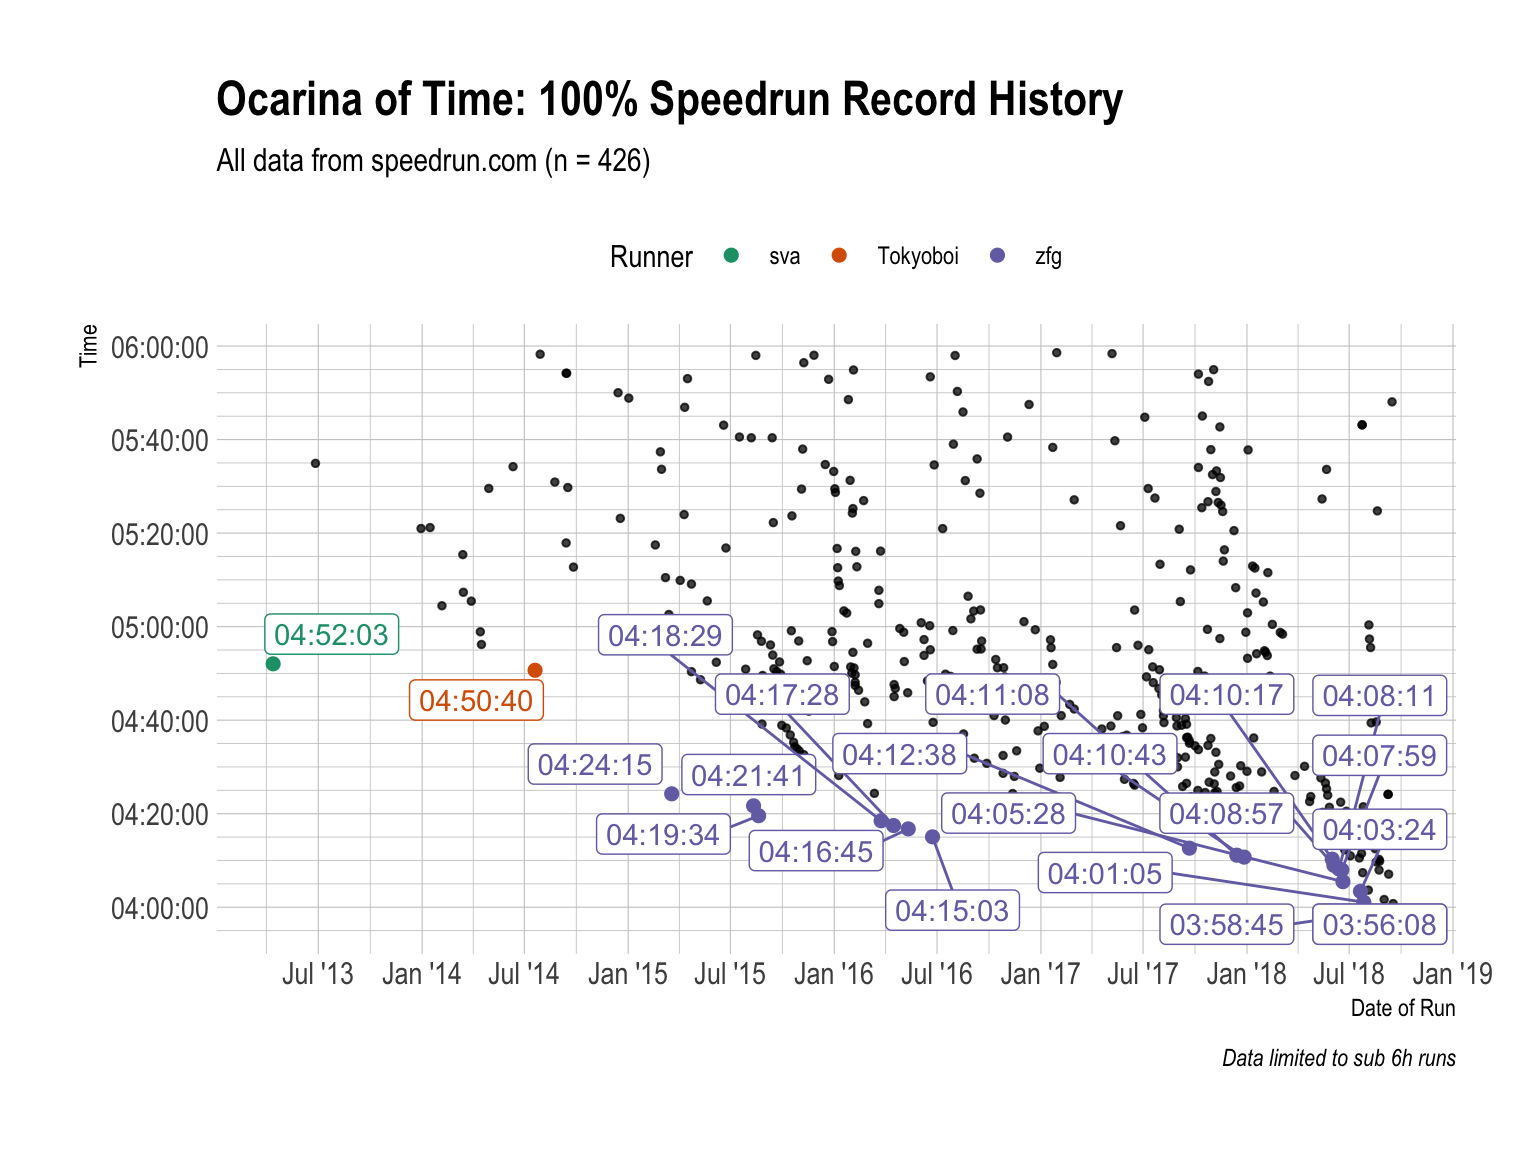
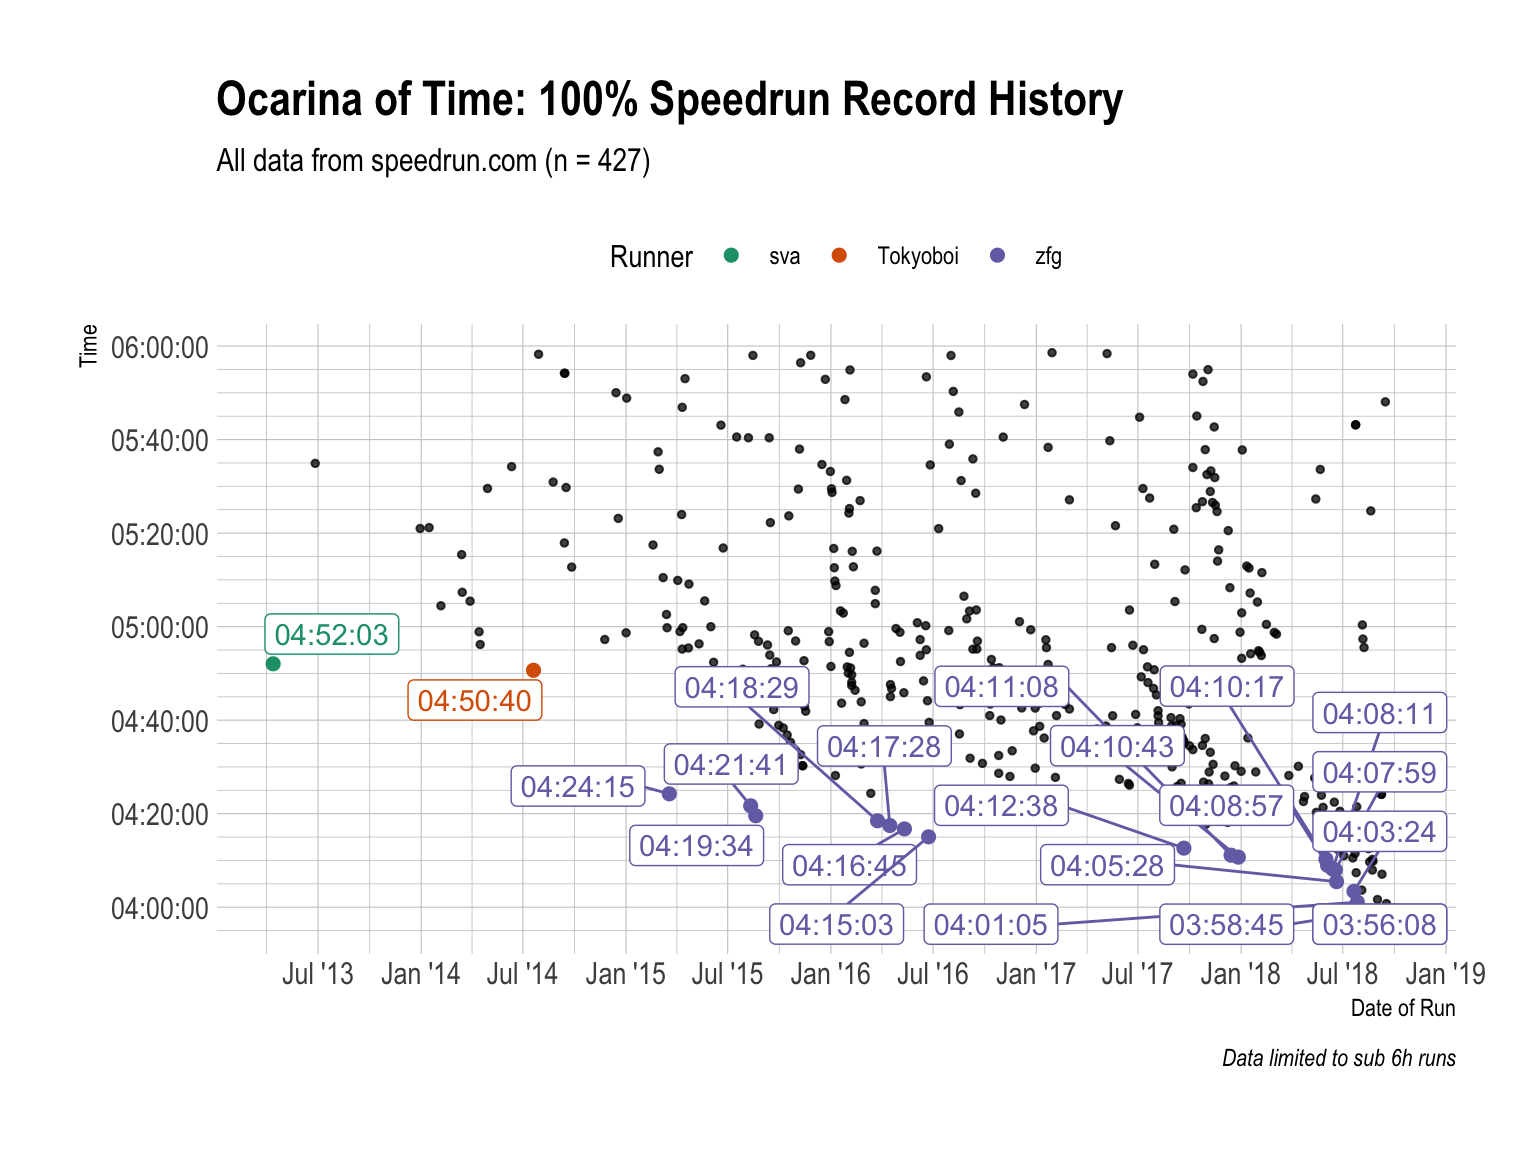
Rebuild everything

diff --git a/docs/articles/ocarina-of-time-100-.html b/docs/articles/ocarina-of-time-100-.html
@@ -82,7 +82,7 @@
       <h1>Ocarina of Time 100%</h1>
                         <h4 class="author">Lukas Burk</h4>
             
-            <h4 class="date">2018-09-30</h4>
+            <h4 class="date">2018-10-11</h4>
       
       <small class="dont-index">Source: <a href="https://github.com/jemus42/speedrunr/blob/master/vignettes/ocarina-of-time-100-.Rmd"><code>vignettes/ocarina-of-time-100-.Rmd</code></a></small>
       <div class="hidden name"><code>ocarina-of-time-100-.Rmd</code></div>
@@ -134,26 +134,26 @@
 <a class="sourceLine" id="cb3-4" data-line-number="4">oot100 &lt;-<span class="st"> </span><span class="kw"><a href="../reference/get_runs.html">get_runs</a></span>(<span class="dt">game =</span> <span class="st">"j1l9qz1g"</span>, <span class="dt">category =</span> <span class="st">"q255jw2o"</span>, <span class="dt">max =</span> <span class="ot">Inf</span>)</a></code></pre></div>
 <p>Note that I’m useing <code>max = Inf</code> to make sure I get <em>all</em> the runs.</p>
 <div class="sourceCode" id="cb4"><pre class="sourceCode r"><code class="sourceCode r"><a class="sourceLine" id="cb4-1" data-line-number="1"><span class="kw">str</span>(oot100)</a>
-<a class="sourceLine" id="cb4-2" data-line-number="2"><span class="co">#&gt; Classes 'tbl_df', 'tbl' and 'data.frame':    538 obs. of  22 variables:</span></a>
-<a class="sourceLine" id="cb4-3" data-line-number="3"><span class="co">#&gt;  $ id             : chr  "yl4r56rm" "yl4r16xm" "y923l3ez" "zx4gejqy" ...</span></a>
-<a class="sourceLine" id="cb4-4" data-line-number="4"><span class="co">#&gt;  $ weblink        : chr  "https://www.speedrun.com/oot/run/yl4r56rm" "https://www.speedrun.com/oot/run/yl4r16xm" "https://www.speedrun.com/oot/run/y923l3ez" "https://www.speedrun.com/oot/run/zx4gejqy" ...</span></a>
+<a class="sourceLine" id="cb4-2" data-line-number="2"><span class="co">#&gt; Classes 'tbl_df', 'tbl' and 'data.frame':    539 obs. of  22 variables:</span></a>
+<a class="sourceLine" id="cb4-3" data-line-number="3"><span class="co">#&gt;  $ id             : chr  "z51vk85m" "yl4r56rm" "yl4r16xm" "y923l3ez" ...</span></a>
+<a class="sourceLine" id="cb4-4" data-line-number="4"><span class="co">#&gt;  $ weblink        : chr  "https://www.speedrun.com/oot/run/z51vk85m" "https://www.speedrun.com/oot/run/yl4r56rm" "https://www.speedrun.com/oot/run/yl4r16xm" "https://www.speedrun.com/oot/run/y923l3ez" ...</span></a>
 <a class="sourceLine" id="cb4-5" data-line-number="5"><span class="co">#&gt;  $ game           : chr  "j1l9qz1g" "j1l9qz1g" "j1l9qz1g" "j1l9qz1g" ...</span></a>
 <a class="sourceLine" id="cb4-6" data-line-number="6"><span class="co">#&gt;  $ level          : logi  NA NA NA NA NA NA ...</span></a>
 <a class="sourceLine" id="cb4-7" data-line-number="7"><span class="co">#&gt;  $ category       : chr  "q255jw2o" "q255jw2o" "q255jw2o" "q255jw2o" ...</span></a>
-<a class="sourceLine" id="cb4-8" data-line-number="8"><span class="co">#&gt;  $ videos         : chr  "https://www.youtube.com/watch?v=gZjxgUpNNOM" "https://www.twitch.tv/videos/314099685" "https://www.youtube.com/watch?v=Fw5i584lHRI" "https://www.youtube.com/watch?v=l_m6TKaZhQE" ...</span></a>
+<a class="sourceLine" id="cb4-8" data-line-number="8"><span class="co">#&gt;  $ videos         : chr  "https://www.youtube.com/watch?v=jTH_lZNUeGA" "https://www.youtube.com/watch?v=gZjxgUpNNOM" "https://www.twitch.tv/videos/314099685" "https://www.youtube.com/watch?v=Fw5i584lHRI" ...</span></a>
 <a class="sourceLine" id="cb4-9" data-line-number="9"><span class="co">#&gt;  $ status         : chr  "verified" "verified" "verified" "verified" ...</span></a>
-<a class="sourceLine" id="cb4-10" data-line-number="10"><span class="co">#&gt;  $ comment        : chr  NA "4th dampe." "1st try dampe.  during the oot vs oot3d 100% race." NA ...</span></a>
-<a class="sourceLine" id="cb4-11" data-line-number="11"><span class="co">#&gt;  $ player_id      : chr  "v819rrxp" "68wq9z8g" "e8e5v680" "v819rrxp" ...</span></a>
-<a class="sourceLine" id="cb4-12" data-line-number="12"><span class="co">#&gt;  $ player_url     : chr  "https://www.speedrun.com/user/Marco" "https://www.speedrun.com/user/cma2819" "https://www.speedrun.com/user/zfg" "https://www.speedrun.com/user/Marco" ...</span></a>
-<a class="sourceLine" id="cb4-13" data-line-number="13"><span class="co">#&gt;  $ player_name    : chr  "Marco" "cma2819" "zfg" "Marco" ...</span></a>
+<a class="sourceLine" id="cb4-10" data-line-number="10"><span class="co">#&gt;  $ comment        : chr  NA NA "4th dampe." "1st try dampe.  during the oot vs oot3d 100% race." ...</span></a>
+<a class="sourceLine" id="cb4-11" data-line-number="11"><span class="co">#&gt;  $ player_id      : chr  "v819rrxp" "v819rrxp" "68wq9z8g" "e8e5v680" ...</span></a>
+<a class="sourceLine" id="cb4-12" data-line-number="12"><span class="co">#&gt;  $ player_url     : chr  "https://www.speedrun.com/user/Marco" "https://www.speedrun.com/user/Marco" "https://www.speedrun.com/user/cma2819" "https://www.speedrun.com/user/zfg" ...</span></a>
+<a class="sourceLine" id="cb4-13" data-line-number="13"><span class="co">#&gt;  $ player_name    : chr  "Marco" "Marco" "cma2819" "zfg" ...</span></a>
 <a class="sourceLine" id="cb4-14" data-line-number="14"><span class="co">#&gt;  $ player_role    : chr  "user" "user" "user" "user" ...</span></a>
-<a class="sourceLine" id="cb4-15" data-line-number="15"><span class="co">#&gt;  $ player_signup  : POSIXct, format: "2015-02-17 18:25:39" "2015-02-20 17:09:08" ...</span></a>
-<a class="sourceLine" id="cb4-16" data-line-number="16"><span class="co">#&gt;  $ date           : Date, format: "2018-09-29" "2018-09-24" ...</span></a>
-<a class="sourceLine" id="cb4-17" data-line-number="17"><span class="co">#&gt;  $ submitted      : POSIXct, format: "2018-09-29 13:12:43" "2018-09-24 08:37:43" ...</span></a>
-<a class="sourceLine" id="cb4-18" data-line-number="18"><span class="co">#&gt;  $ time_primary   : int  14357 15211 14168 14447 20884 15577 22987 14824 22265 15848 ...</span></a>
-<a class="sourceLine" id="cb4-19" data-line-number="19"><span class="co">#&gt;  $ time_realtime  : int  14357 15211 14168 14447 20884 15577 22987 14824 22265 15848 ...</span></a>
+<a class="sourceLine" id="cb4-15" data-line-number="15"><span class="co">#&gt;  $ player_signup  : POSIXct, format: "2015-02-17 18:25:39" "2015-02-17 18:25:39" ...</span></a>
+<a class="sourceLine" id="cb4-16" data-line-number="16"><span class="co">#&gt;  $ date           : Date, format: "2018-10-11" "2018-09-29" ...</span></a>
+<a class="sourceLine" id="cb4-17" data-line-number="17"><span class="co">#&gt;  $ submitted      : POSIXct, format: "2018-10-11 04:03:38" "2018-09-29 13:12:43" ...</span></a>
+<a class="sourceLine" id="cb4-18" data-line-number="18"><span class="co">#&gt;  $ time_primary   : int  14308 14357 15211 14168 14447 20884 15577 22987 14824 22265 ...</span></a>
+<a class="sourceLine" id="cb4-19" data-line-number="19"><span class="co">#&gt;  $ time_realtime  : int  14308 14357 15211 14168 14447 20884 15577 22987 14824 22265 ...</span></a>
 <a class="sourceLine" id="cb4-20" data-line-number="20"><span class="co">#&gt;  $ time_ingame    : int  0 0 0 0 0 0 0 0 0 0 ...</span></a>
-<a class="sourceLine" id="cb4-21" data-line-number="21"><span class="co">#&gt;  $ time_hms       : 'hms' num  03:59:17 04:13:31 03:56:08 04:00:47 ...</span></a>
+<a class="sourceLine" id="cb4-21" data-line-number="21"><span class="co">#&gt;  $ time_hms       : 'hms' num  03:58:28 03:59:17 04:13:31 03:56:08 ...</span></a>
 <a class="sourceLine" id="cb4-22" data-line-number="22"><span class="co">#&gt;   ..- attr(*, "units")= chr "secs"</span></a>
 <a class="sourceLine" id="cb4-23" data-line-number="23"><span class="co">#&gt;  $ system_platform: chr  "nzelreqp" "nzelreqp" "nzelreqp" "nzelreqp" ...</span></a>
 <a class="sourceLine" id="cb4-24" data-line-number="24"><span class="co">#&gt;  $ system_emulated: logi  FALSE FALSE FALSE FALSE FALSE FALSE ...</span></a>
@@ -196,58 +196,58 @@
 <td align="left">JPN / NTSC</td>
 </tr>
 <tr class="odd">
+<td align="left">03:58:28</td>
+<td align="left">Marco</td>
+<td align="left">2018-10-11</td>
+<td align="left">Wii Virtual Console</td>
+<td align="left">JPN / NTSC</td>
+</tr>
+<tr class="even">
 <td align="left">03:58:45</td>
 <td align="left">zfg</td>
 <td align="left">2018-08-01</td>
 <td align="left">Wii Virtual Console</td>
 <td align="left">JPN / NTSC</td>
 </tr>
-<tr class="even">
+<tr class="odd">
 <td align="left">03:59:17</td>
 <td align="left">Marco</td>
 <td align="left">2018-09-29</td>
 <td align="left">Wii Virtual Console</td>
 <td align="left">JPN / NTSC</td>
 </tr>
-<tr class="odd">
+<tr class="even">
 <td align="left">04:00:47</td>
 <td align="left">Marco</td>
 <td align="left">2018-09-17</td>
 <td align="left">Wii Virtual Console</td>
 <td align="left">JPN / NTSC</td>
 </tr>
-<tr class="even">
+<tr class="odd">
 <td align="left">04:01:05</td>
 <td align="left">zfg</td>
 <td align="left">2018-07-27</td>
 <td align="left">Wii Virtual Console</td>
 <td align="left">JPN / NTSC</td>
 </tr>
-<tr class="odd">
+<tr class="even">
 <td align="left">04:01:39</td>
 <td align="left">Marco</td>
 <td align="left">2018-09-01</td>
 <td align="left">Wii Virtual Console</td>
 <td align="left">JPN / NTSC</td>
 </tr>
-<tr class="even">
+<tr class="odd">
 <td align="left">04:03:24</td>
 <td align="left">zfg</td>
 <td align="left">2018-07-21</td>
 <td align="left">Wii Virtual Console</td>
 <td align="left">JPN / NTSC</td>
 </tr>
-<tr class="odd">
+<tr class="even">
 <td align="left">04:03:40</td>
 <td align="left">Marco</td>
 <td align="left">2018-08-04</td>
-<td align="left">Wii Virtual Console</td>
-<td align="left">JPN / NTSC</td>
-</tr>
-<tr class="even">
-<td align="left">04:05:28</td>
-<td align="left">zfg</td>
-<td align="left">2018-06-20</td>
 <td align="left">Wii Virtual Console</td>
 <td align="left">JPN / NTSC</td>
 </tr>

diff --git a/docs/index.html b/docs/index.html
@@ -340,94 +340,94 @@ Let’s get started:</p>
 <td align="left"><a href="https://www.speedrun.com/user/zfg" class="uri">https://www.speedrun.com/user/zfg</a></td>
 </tr>
 <tr class="odd">
+<td align="left">2018-10-11 04:03:38</td>
+<td align="left">03:58:28</td>
+<td align="left"><a href="https://www.speedrun.com/user/Marco" class="uri">https://www.speedrun.com/user/Marco</a></td>
+</tr>
+<tr class="even">
 <td align="left">2018-08-02 02:15:56</td>
 <td align="left">03:58:45</td>
 <td align="left"><a href="https://www.speedrun.com/user/zfg" class="uri">https://www.speedrun.com/user/zfg</a></td>
 </tr>
-<tr class="even">
+<tr class="odd">
 <td align="left">2018-09-29 13:12:43</td>
 <td align="left">03:59:17</td>
 <td align="left"><a href="https://www.speedrun.com/user/Marco" class="uri">https://www.speedrun.com/user/Marco</a></td>
 </tr>
-<tr class="odd">
+<tr class="even">
 <td align="left">2018-09-17 12:49:58</td>
 <td align="left">04:00:47</td>
 <td align="left"><a href="https://www.speedrun.com/user/Marco" class="uri">https://www.speedrun.com/user/Marco</a></td>
 </tr>
-<tr class="even">
+<tr class="odd">
 <td align="left">2018-07-28 05:47:32</td>
 <td align="left">04:01:05</td>
 <td align="left"><a href="https://www.speedrun.com/user/zfg" class="uri">https://www.speedrun.com/user/zfg</a></td>
 </tr>
-<tr class="odd">
+<tr class="even">
 <td align="left">2018-09-01 04:40:41</td>
 <td align="left">04:01:39</td>
 <td align="left"><a href="https://www.speedrun.com/user/Marco" class="uri">https://www.speedrun.com/user/Marco</a></td>
 </tr>
-<tr class="even">
+<tr class="odd">
 <td align="left">2018-07-22 03:15:39</td>
 <td align="left">04:03:24</td>
 <td align="left"><a href="https://www.speedrun.com/user/zfg" class="uri">https://www.speedrun.com/user/zfg</a></td>
 </tr>
-<tr class="odd">
+<tr class="even">
 <td align="left">2018-08-04 04:03:15</td>
 <td align="left">04:03:40</td>
 <td align="left"><a href="https://www.speedrun.com/user/Marco" class="uri">https://www.speedrun.com/user/Marco</a></td>
 </tr>
-<tr class="even">
+<tr class="odd">
 <td align="left">2018-06-21 02:28:51</td>
 <td align="left">04:05:28</td>
 <td align="left"><a href="https://www.speedrun.com/user/zfg" class="uri">https://www.speedrun.com/user/zfg</a></td>
 </tr>
-<tr class="odd">
+<tr class="even">
 <td align="left">2018-09-09 23:02:52</td>
 <td align="left">04:07:04</td>
 <td align="left"><a href="https://www.speedrun.com/user/MasterMonk1991" class="uri">https://www.speedrun.com/user/MasterMonk1991</a></td>
 </tr>
-<tr class="even">
+<tr class="odd">
 <td align="left">2018-07-25 04:07:52</td>
 <td align="left">04:07:23</td>
 <td align="left"><a href="https://www.speedrun.com/user/Marco" class="uri">https://www.speedrun.com/user/Marco</a></td>
 </tr>
-<tr class="odd">
+<tr class="even">
 <td align="left">2018-08-23 00:22:32</td>
 <td align="left">04:07:57</td>
 <td align="left"><a href="https://www.speedrun.com/user/Bonooru" class="uri">https://www.speedrun.com/user/Bonooru</a></td>
 </tr>
-<tr class="even">
+<tr class="odd">
 <td align="left">2018-06-19 05:20:57</td>
 <td align="left">04:07:59</td>
 <td align="left"><a href="https://www.speedrun.com/user/zfg" class="uri">https://www.speedrun.com/user/zfg</a></td>
 </tr>
-<tr class="odd">
+<tr class="even">
 <td align="left">2018-06-14 04:01:53</td>
 <td align="left">04:08:11</td>
 <td align="left"><a href="https://www.speedrun.com/user/zfg" class="uri">https://www.speedrun.com/user/zfg</a></td>
 </tr>
-<tr class="even">
+<tr class="odd">
 <td align="left">2018-06-05 03:41:59</td>
 <td align="left">04:08:57</td>
 <td align="left"><a href="https://www.speedrun.com/user/zfg" class="uri">https://www.speedrun.com/user/zfg</a></td>
 </tr>
-<tr class="odd">
+<tr class="even">
 <td align="left">2018-08-18 03:12:47</td>
 <td align="left">04:09:42</td>
 <td align="left"><a href="https://www.speedrun.com/user/Bonooru" class="uri">https://www.speedrun.com/user/Bonooru</a></td>
 </tr>
-<tr class="even">
+<tr class="odd">
 <td align="left">2018-08-24 10:36:10</td>
 <td align="left">04:09:50</td>
 <td align="left"><a href="https://www.speedrun.com/user/MasterMonk1991" class="uri">https://www.speedrun.com/user/MasterMonk1991</a></td>
 </tr>
-<tr class="odd">
+<tr class="even">
 <td align="left">2018-08-23 14:48:18</td>
 <td align="left">04:10:14</td>
 <td align="left"><a href="https://www.speedrun.com/user/MasterMonk1991" class="uri">https://www.speedrun.com/user/MasterMonk1991</a></td>
-</tr>
-<tr class="even">
-<td align="left">2018-06-02 03:35:41</td>
-<td align="left">04:10:17</td>
-<td align="left"><a href="https://www.speedrun.com/user/zfg" class="uri">https://www.speedrun.com/user/zfg</a></td>
 </tr>
 </tbody>
 </table>
@@ -535,29 +535,29 @@ Let’s get started:</p>
 </tr></thead>
 <tbody>
 <tr class="odd">
-<td align="right">17732</td>
+<td align="right">15577</td>
 <td align="left">JPN / NTSC</td>
 <td align="left">Wii Virtual Console</td>
 </tr>
 <tr class="even">
-<td align="right">16572</td>
+<td align="right">15350</td>
 <td align="left">JPN / NTSC</td>
 <td align="left">Wii Virtual Console</td>
 </tr>
 <tr class="odd">
-<td align="right">24707</td>
+<td align="right">15886</td>
 <td align="left">JPN / NTSC</td>
 <td align="left">Wii Virtual Console</td>
 </tr>
 <tr class="even">
-<td align="right">22987</td>
+<td align="right">15837</td>
+<td align="left">JPN / NTSC</td>
+<td align="left">Wii Virtual Console</td>
+</tr>
+<tr class="odd">
+<td align="right">20589</td>
 <td align="left">JPN / NTSC</td>
 <td align="left">Nintendo 64</td>
-</tr>
-<tr class="odd">
-<td align="right">14447</td>
-<td align="left">JPN / NTSC</td>
-<td align="left">Wii Virtual Console</td>
 </tr>
 </tbody>
 </table>
